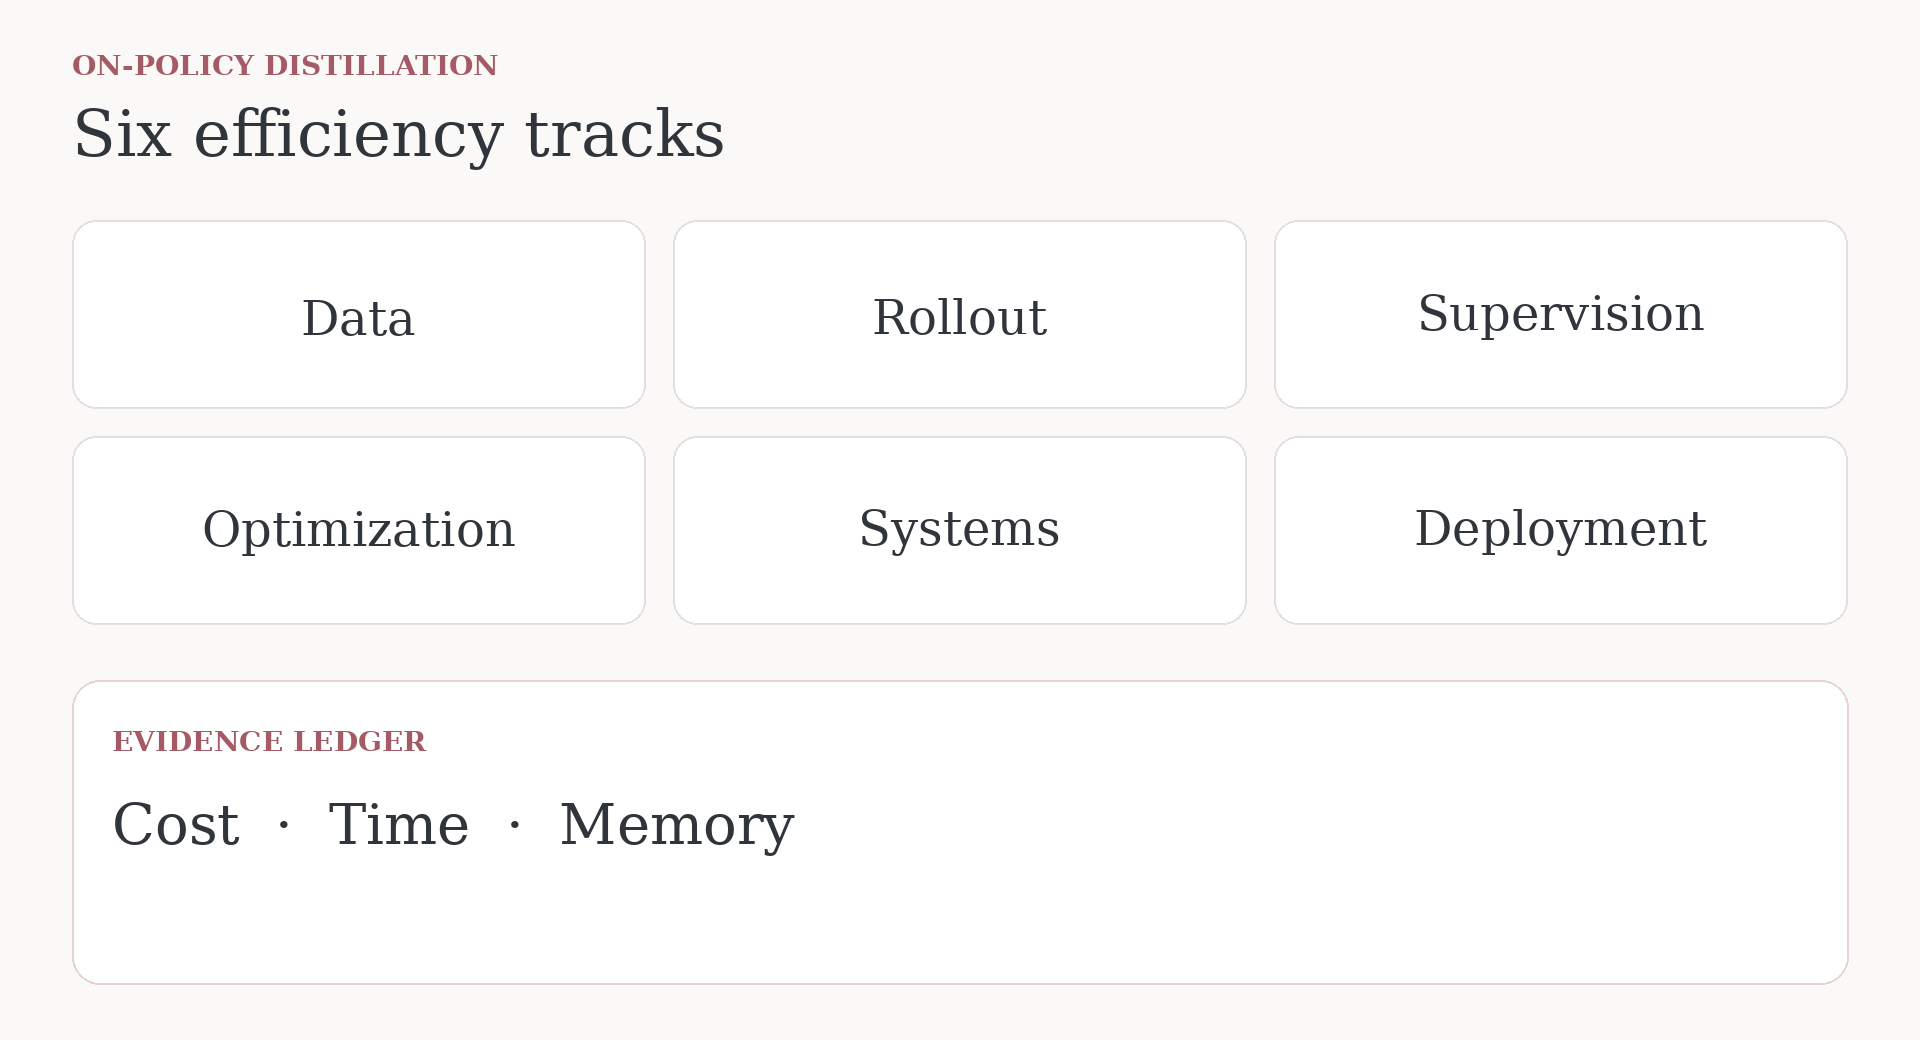
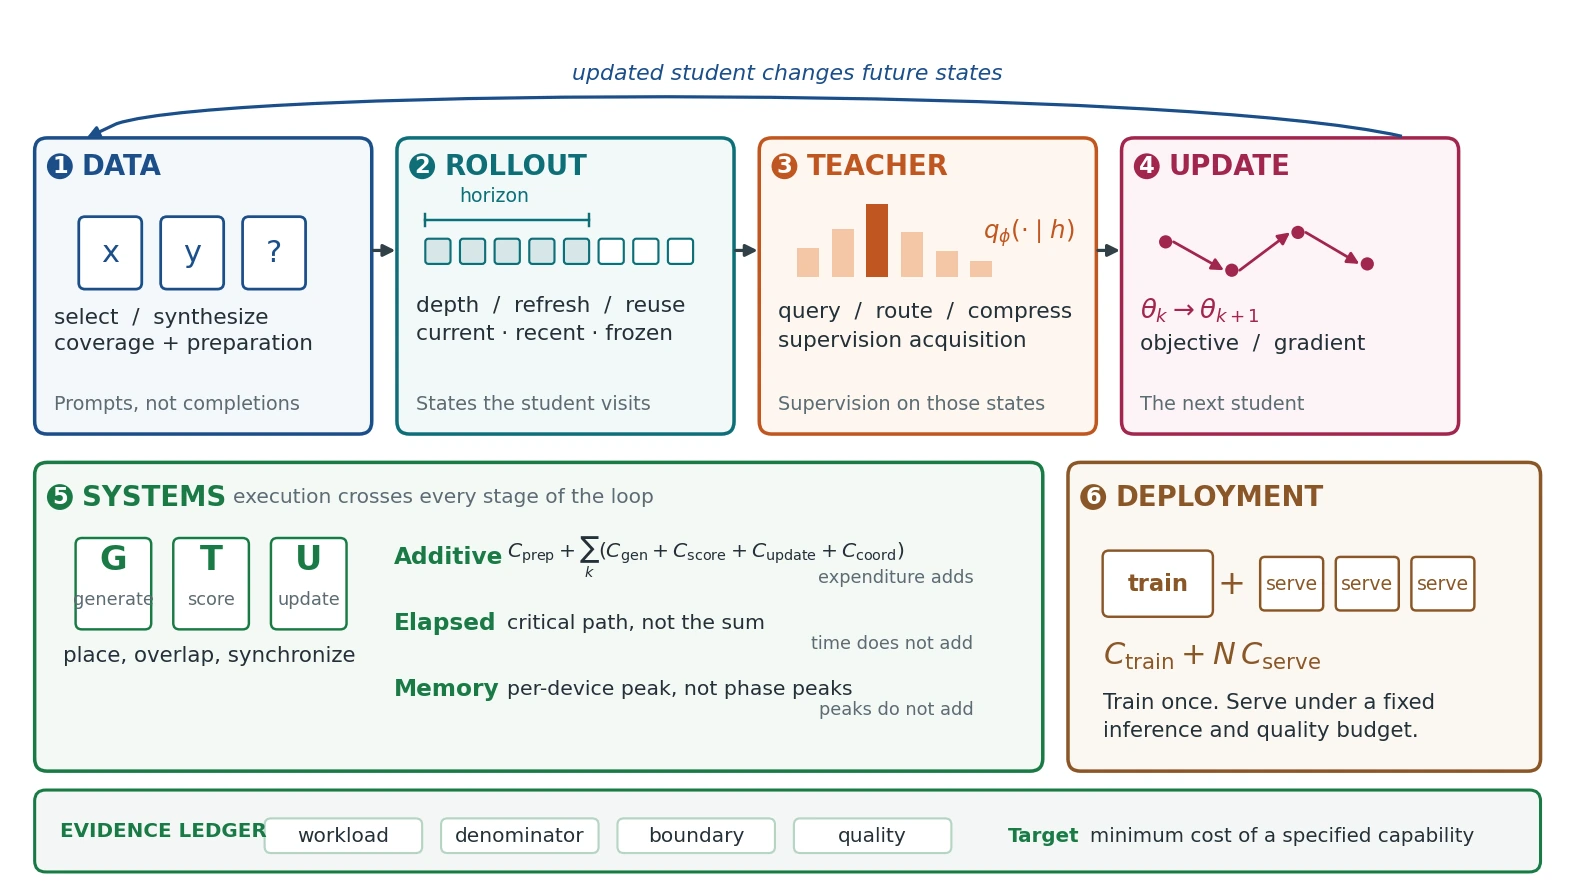
content: use the survey overview figure for efficient OPD

diff --git a/images/works/README.md b/images/works/README.md
@@ -5,7 +5,7 @@ Local copies avoid third-party image requests on the homepage. Figures remain co
 Original authors and publishers retain rights to the figures; the website's MIT license does not relicense these assets.
 
 - srp-sft-figure-2.webp — Figure 2: SRP-SFT method overview, rendered directly from page 4 of https://arxiv.org/pdf/2610.19685v1 at 360 DPI. PDF crop in points: `[70, 69, 525, 299]`; dimensions: 2275 × 1150; lossless WebP. Source and crop metadata are also recorded in `_data/works.json`.
-- efficient-opd.webp — Homepage diagram for the Preprints.org survey https://www.preprints.org/manuscript/202610.2702. It summarizes the paper's six efficiency tracks and evidence ledger; it is not a crop of a paper figure. 1920 × 1040, lossless WebP.
+- efficient-opd.webp — Homepage rendering of the double-column overview in `opd/efficient/survey/overview-six-tracks.pdf` for https://www.preprints.org/manuscript/202610.2702. 1575 × 894 WebP. The PDF is the print figure; glyphs are conceptual and do not encode a measured cost.
 - audiokv-figure-3.webp — Figure 3: Overview of AudioKV (arXiv v2): https://arxiv.org/html/2604.06694v2/AudioKV_comparison_fig2_cropped.png
 - slowfast.webp — slowfast.webp: https://raw.githubusercontent.com/LiangrunFlora/Slow-Fast-Sampling/e12b9de37fe4ac7762bb3a124daa0bf755548eb5/assets/method.png
 - ultrahit.webp — ultrahit.webp: https://raw.githubusercontent.com/LeapLabTHU/UltraHiT/75e3a415b33042b2ea9eccbe2e07494d6fff3278/fig/overall.jpg
